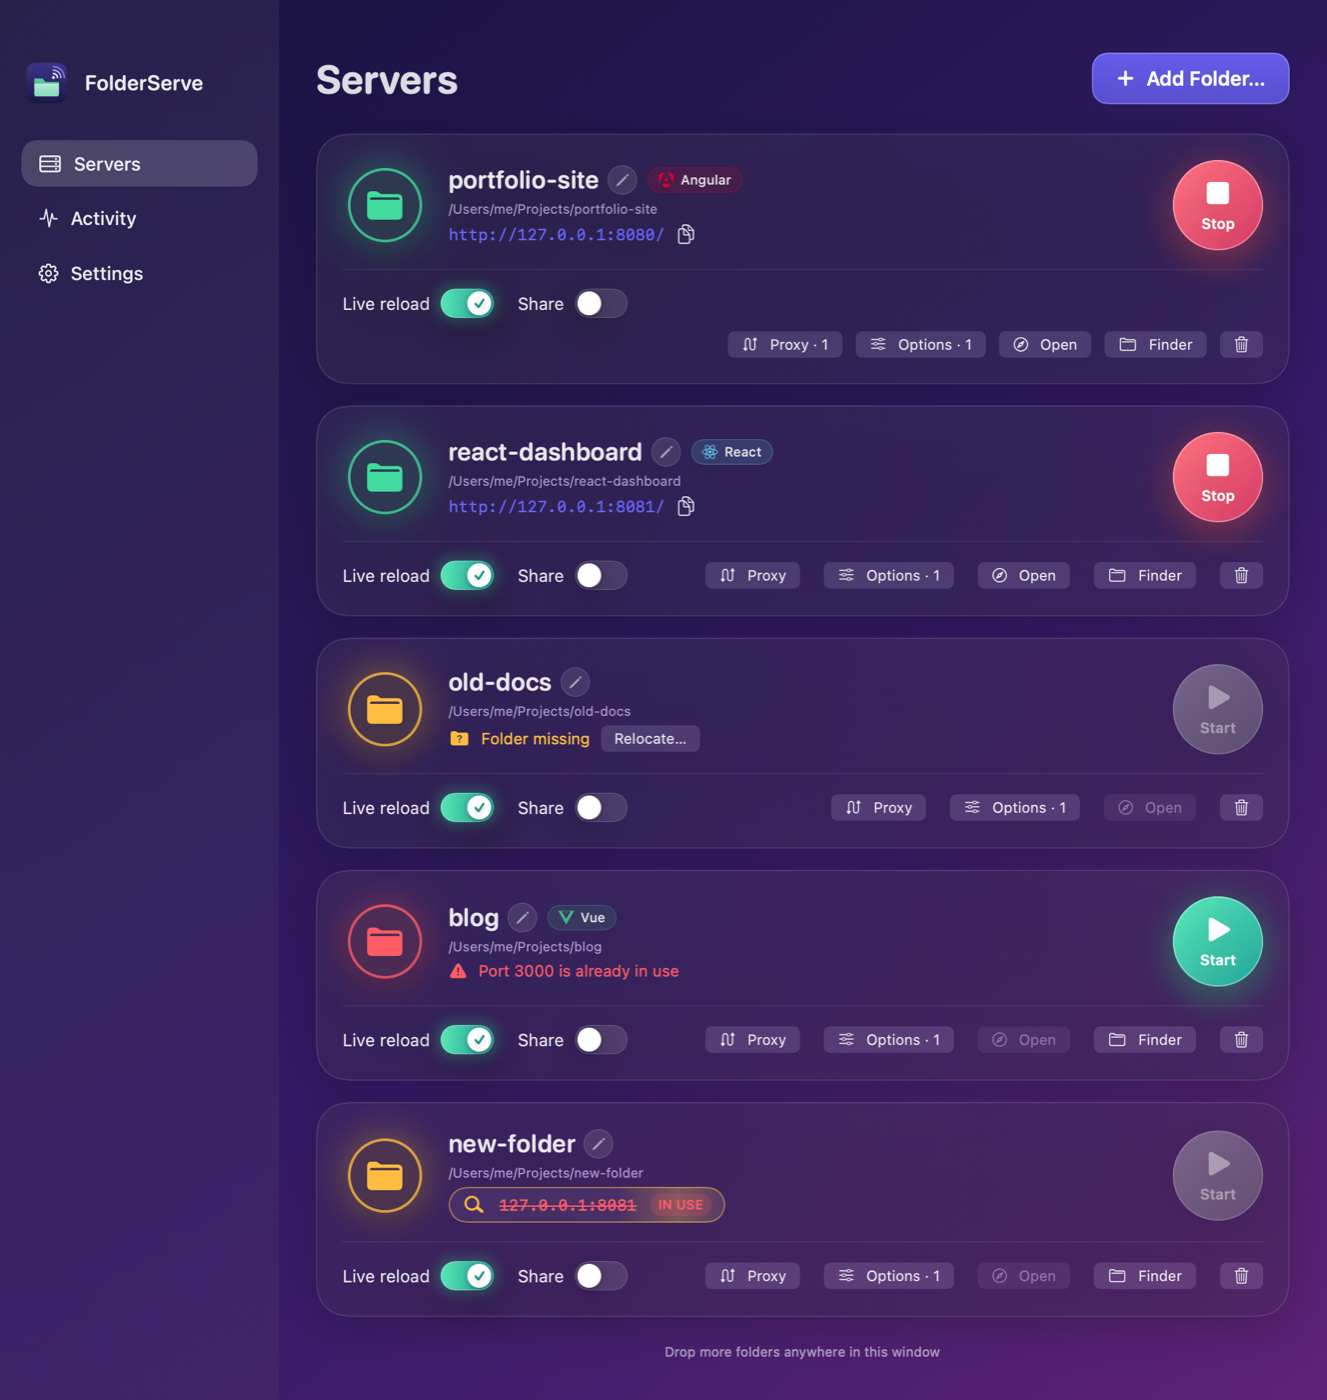
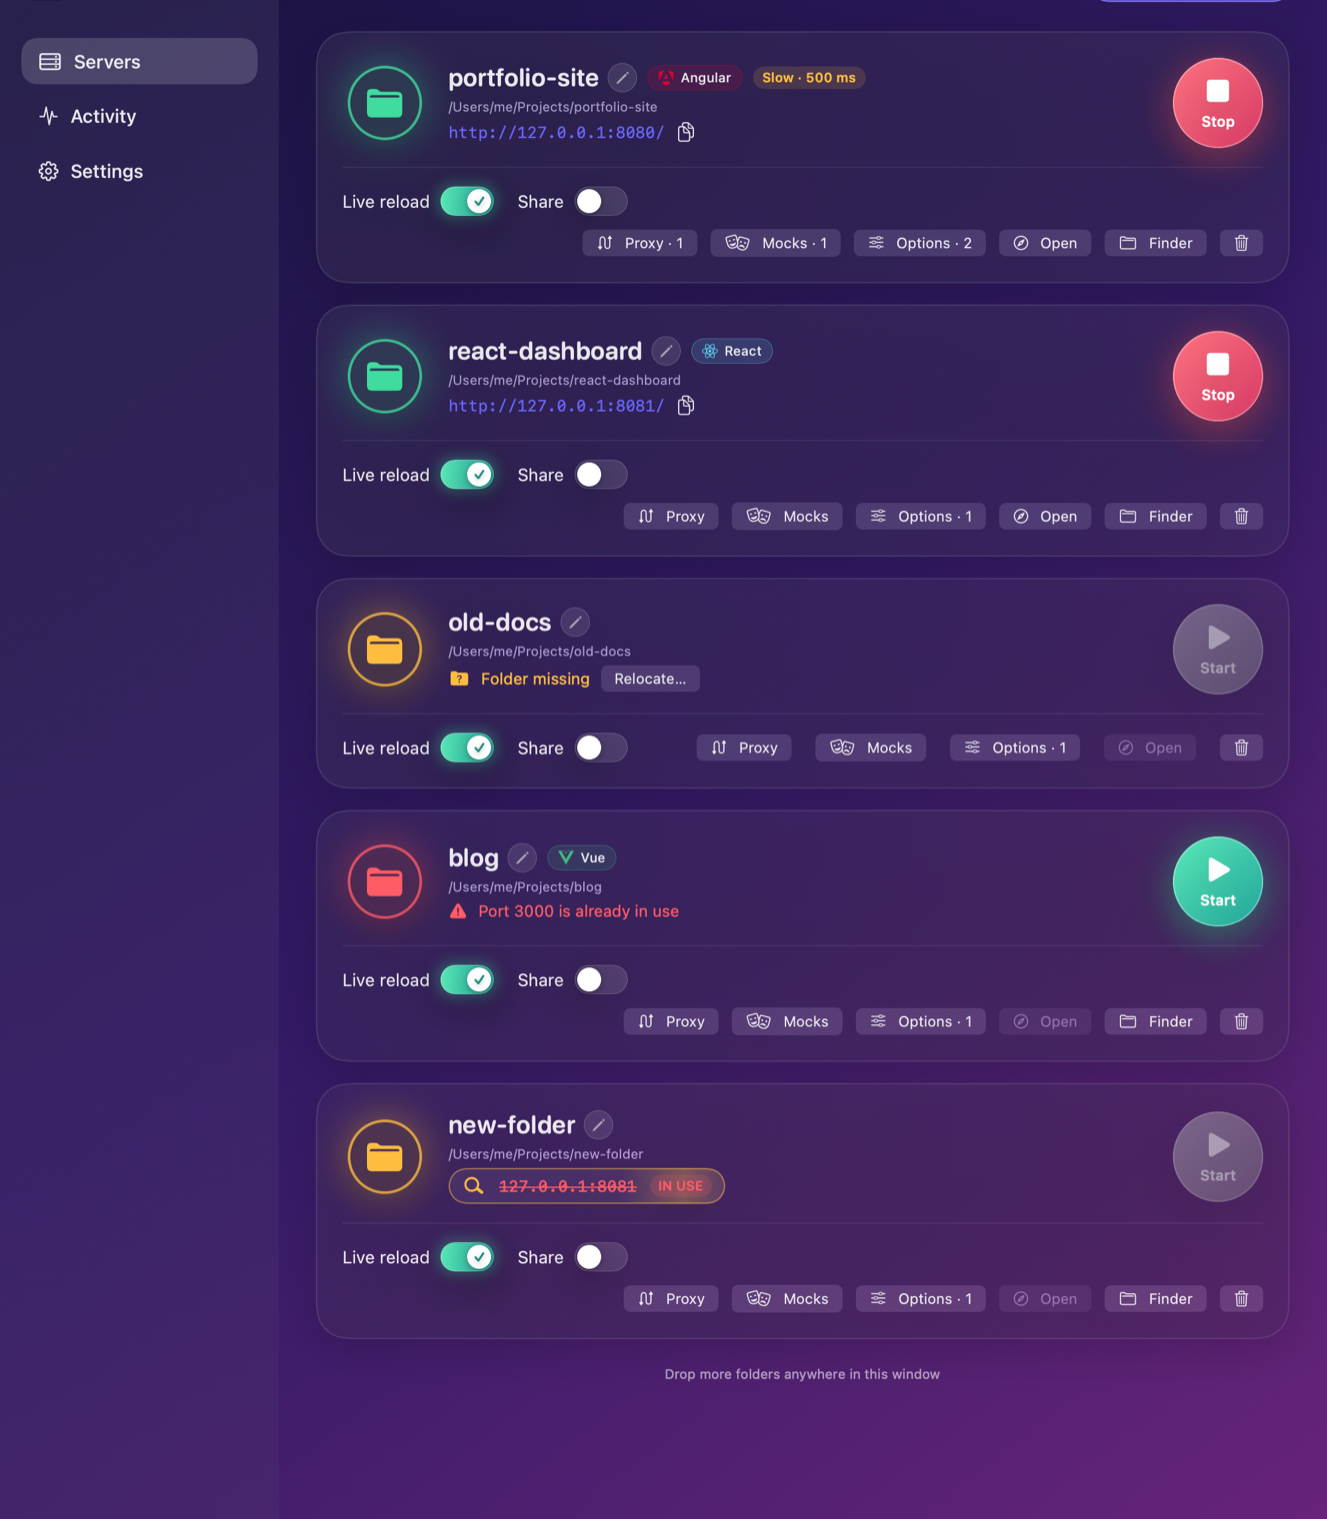
feat: per-server response delay to see loading states
Options ▸ Delay holds every answer back by a chosen time (files, mocks, proxied calls, errors);
live reload and the console endpoint are not delayed. The card shows a Slow badge while it is on.

diff --git a/Packages/FolderServeCore/Tests/FolderServeCoreTests/ResponseDelayTests.swift b/Packages/FolderServeCore/Tests/FolderServeCoreTests/ResponseDelayTests.swift
@@ -1,0 +1,75 @@
+import XCTest
+@testable import FolderServeCore
+
+final class ResponseDelayTests: XCTestCase {
+    var root: URL!
+    var server: StaticServer!
+    let fm = FileManager.default
+
+    override func setUpWithError() throws {
+        root = fm.temporaryDirectory.appendingPathComponent("dly-\(UUID().uuidString)")
+        try fm.createDirectory(at: root, withIntermediateDirectories: true)
+        try "hello".write(to: root.appendingPathComponent("a.txt"), atomically: true, encoding: .utf8)
+    }
+    override func tearDownWithError() throws { server?.stop(); try? fm.removeItem(at: root) }
+
+    private func start(_ options: ServeOptions) async throws -> UInt16 {
+        server = StaticServer(root: root, port: 0, options: options)
+        return try await server.start()
+    }
+    private func timed(_ port: UInt16, _ raw: String) throws -> (RawResponse, TimeInterval) {
+        let began = Date()
+        let r = try XCTUnwrap(RawHTTP.request(port: port, raw))
+        return (r, Date().timeIntervalSince(began))
+    }
+
+    func testEffectiveDelayIsClampedAndOlderSettingsHaveNone() throws {
+        XCTAssertEqual(ServeOptions().effectiveDelayMs, 0)
+        XCTAssertEqual(ServeOptions(responseDelayMs: -5).effectiveDelayMs, 0)
+        XCTAssertEqual(ServeOptions(responseDelayMs: 700).effectiveDelayMs, 700)
+        XCTAssertEqual(ServeOptions(responseDelayMs: 99_999).effectiveDelayMs, ServeOptions.maxDelayMs)
+        XCTAssertEqual(try JSONDecoder().decode(ServeOptions.self, from: Data("{}".utf8)).responseDelayMs, 0)
+    }
+
+    func testAnswersAreHeldBackAndTheTimeIsLogged() async throws {
+        let logged = Durations()
+        let port = try await start(ServeOptions(mocks: [MockRule(path: "/api/x", body: "m")], responseDelayMs: 300))
+        server.onRequest = { logged.add($0.durationMs ?? -1) }
+        let (file, fileTime) = try timed(port, "GET /a.txt HTTP/1.1\r\nHost: localhost\r\n\r\n")
+        XCTAssertEqual(file.text, "hello")
+        XCTAssertGreaterThanOrEqual(fileTime, 0.28)
+        let (mock, mockTime) = try timed(port, "GET /api/x HTTP/1.1\r\nHost: localhost\r\n\r\n")
+        XCTAssertEqual(mock.text, "m")
+        XCTAssertGreaterThanOrEqual(mockTime, 0.28)
+        let (missing, missingTime) = try timed(port, "GET /nope.txt HTTP/1.1\r\nHost: localhost\r\n\r\n")
+        XCTAssertEqual(missing.status, 404)
+        XCTAssertGreaterThanOrEqual(missingTime, 0.28)
+        for _ in 0..<100 where logged.values.count < 3 { usleep(10_000) }
+        XCTAssertTrue(logged.values.allSatisfy { $0 >= 280 }, "\(logged.values)")
+    }
+
+    func testNoDelayByDefaultAndChangingTheOptionAppliesAtOnce() async throws {
+        let port = try await start(ServeOptions())
+        XCTAssertLessThan(try timed(port, "GET /a.txt HTTP/1.1\r\nHost: localhost\r\n\r\n").1, 0.2)
+        server.updateOptions(ServeOptions(responseDelayMs: 250))
+        XCTAssertGreaterThanOrEqual(try timed(port, "GET /a.txt HTTP/1.1\r\nHost: localhost\r\n\r\n").1, 0.23)
+        server.updateOptions(ServeOptions())
+        XCTAssertLessThan(try timed(port, "GET /a.txt HTTP/1.1\r\nHost: localhost\r\n\r\n").1, 0.2)
+    }
+
+    func testLiveReloadConnectionAndHostCheckAreNotDelayed() async throws {
+        let port = try await start(ServeOptions(responseDelayMs: 2000))
+        let began = Date()
+        let r = try XCTUnwrap(RawHTTP.request(port: port, "GET /__reload HTTP/1.1\r\nHost: localhost\r\n\r\n", readLimit: 10))
+        XCTAssertEqual(r.status, 200)
+        XCTAssertLessThan(Date().timeIntervalSince(began), 1.0)
+        XCTAssertLessThan(try timed(port, "GET /a.txt HTTP/1.1\r\nHost: evil.example\r\n\r\n").1, 1.0)
+    }
+}
+
+private final class Durations: @unchecked Sendable {
+    private var v: [Int] = []
+    private let lock = NSLock()
+    var values: [Int] { lock.lock(); defer { lock.unlock() }; return v }
+    func add(_ x: Int) { lock.lock(); v.append(x); lock.unlock() }
+}

diff --git a/FolderServe/UI/OptionsPopoverView.swift b/FolderServe/UI/OptionsPopoverView.swift
@@ -21,6 +21,7 @@ struct OptionsPopoverView: View {
             row("Name address", "Show and open this folder as \(HostSlug.make(entryName)).localhost instead of 127.0.0.1. Browsers and curl send *.localhost to this Mac.", \.friendlyHost)
             openAtRow
             group("Debugging").padding(.top, 8)
+            delayRow
             row("Page console", "Show the pages' console errors, warnings and uncaught errors under Activity ▸ Console, also from a phone. Adds a small script to HTML pages.", \.captureConsole)
             group("Security").padding(.top, 8)
             row("HTTPS", "Serve over https:// with a self-signed localhost certificate. Your browser warns once.", \.https)
@@ -52,6 +53,36 @@ struct OptionsPopoverView: View {
             if openAtInvalid {
                 Text("That is not a path on this server. Use something like /docs/index.html.")
                     .font(.caption).foregroundStyle(Theme.warning).fixedSize(horizontal: false, vertical: true)
+            }
+        }
+        .padding(.vertical, 6)
+    }
+
+    /// Slow network: hold every answer back by a chosen time. Drawn as buttons (ImageRenderer cannot draw a Picker).
+    private var delayRow: some View {
+        VStack(alignment: .leading, spacing: 6) {
+            HStack(spacing: 5) {
+                Text("Delay").font(.callout.weight(.medium))
+                if options.effectiveDelayMs > 0 {
+                    Image(systemName: "tortoise.fill").font(.system(size: 11)).foregroundStyle(Theme.warning).accessibilityLabel("Delay is on")
+                }
+            }
+            Text("Wait before answering every request, to see spinners and loading states. Remember to switch it off.")
+                .font(.caption).foregroundStyle(.secondary).fixedSize(horizontal: false, vertical: true)
+            HStack(spacing: 4) {
+                ForEach(ServeOptions.delayChoices, id: \.self) { ms in
+                    let selected = options.effectiveDelayMs == ms
+                    Button { var o = options; o.responseDelayMs = ms; manager.setOptions(entryID, o) } label: {
+                        Text(ServeOptions.delayLabel(ms)).font(.system(size: 11, weight: selected ? .semibold : .regular))
+                            .padding(.horizontal, 8).padding(.vertical, 4)
+                            .foregroundStyle(selected ? Color.white : Color.primary.opacity(0.85))
+                            .background(Capsule().fill(selected ? AnyShapeStyle(ms == 0 ? Theme.accent : Theme.warning.opacity(0.85)) : AnyShapeStyle(.quaternary.opacity(0.6))))
+                            .contentShape(Capsule())
+                    }
+                    .buttonStyle(.plain)
+                    .accessibilityLabel("Delay \(ServeOptions.delayLabel(ms))")
+                    .accessibilityAddTraits(selected ? .isSelected : [])
+                }
             }
         }
         .padding(.vertical, 6)

diff --git a/Packages/FolderServeCore/Sources/FolderServeCore/ServeOptions.swift b/Packages/FolderServeCore/Sources/FolderServeCore/ServeOptions.swift
@@ -25,10 +25,16 @@ public struct ServeOptions: Codable, Equatable, Sendable {
     public var mocks: [MockRule] = []
     /// Forward the pages' console errors, warnings and uncaught errors to the app (a script is added to HTML pages). Off by default.
     public var captureConsole = false
+    /// Wait this long before answering every request, to see loading states (0: off). Live reload's own connection is not delayed.
+    public var responseDelayMs = 0
+    public static let delayChoices = [0, 200, 500, 1000, 2000, 5000]
+    public static let maxDelayMs = 10_000
+    /// The delay actually applied: never negative, never more than ten seconds.
+    public var effectiveDelayMs: Int { min(max(responseDelayMs, 0), Self.maxDelayMs) }
 
     public init(spaMode: Bool = true, liveReload: Bool = true, serveDotfiles: Bool = false, cors: Bool = false,
                 proxyRules: [ProxyRule] = [], caching: Bool = false, https: Bool = false, shareOnNetwork: Bool = false,
-                friendlyHost: Bool = false, openPath: String = "", mocks: [MockRule] = [], captureConsole: Bool = false) {
+                friendlyHost: Bool = false, openPath: String = "", mocks: [MockRule] = [], captureConsole: Bool = false, responseDelayMs: Int = 0) {
         self.spaMode = spaMode
         self.liveReload = liveReload
         self.serveDotfiles = serveDotfiles
@@ -41,6 +47,7 @@ public struct ServeOptions: Codable, Equatable, Sendable {
         self.openPath = openPath
         self.mocks = mocks
         self.captureConsole = captureConsole
+        self.responseDelayMs = responseDelayMs
     }
 
     // Older saved settings lack newer keys; they default to off (or on, for the original switches).
@@ -58,5 +65,6 @@ public struct ServeOptions: Codable, Equatable, Sendable {
         openPath = try c.decodeIfPresent(String.self, forKey: .openPath) ?? ""
         mocks = try c.decodeIfPresent([MockRule].self, forKey: .mocks) ?? []
         captureConsole = try c.decodeIfPresent(Bool.self, forKey: .captureConsole) ?? false
+        responseDelayMs = try c.decodeIfPresent(Int.self, forKey: .responseDelayMs) ?? 0
     }
 }

diff --git a/FolderServe/UI/ServerCardView.swift b/FolderServe/UI/ServerCardView.swift
@@ -20,6 +20,10 @@ struct ServerCardView: View {
                             title(for: entry)
                             if let kind = manager.projectKinds[entryID] { ProjectBadge(kind: kind) }
                             if entry.options.https { OptionBadge(text: "HTTPS") }
+                            if entry.options.effectiveDelayMs > 0 {
+                                OptionBadge(text: "Slow · \(ServeOptions.delayLabel(entry.options.effectiveDelayMs))", warning: true)
+                                    .help("Every answer is held back by \(ServeOptions.delayLabel(entry.options.effectiveDelayMs)). Change it under Options ▸ Delay.")
+                            }
                             if entry.options.cors { OptionBadge(text: "CORS", warning: true).help("CORS is on: any website open in your browser can read the files served here.") }
                             if entry.startsAlways {
                                 Image(systemName: "pin.fill").font(.system(size: 11)).foregroundStyle(.secondary)

diff --git a/Packages/FolderServeCore/Sources/FolderServeCore/StaticServer.swift b/Packages/FolderServeCore/Sources/FolderServeCore/StaticServer.swift
@@ -203,6 +203,17 @@ public final class StaticServer: @unchecked Sendable {
             receiveConsole(conn, req, buffered: Data(buffered))
             return
         }
+        // Slow network: hold every answer back. The time shows in Activity, because the clock started when the request arrived.
+        let delay = currentOptions.effectiveDelayMs
+        guard delay > 0 else { handle(conn, req, buffered: buffered); return }
+        let id = ObjectIdentifier(conn)
+        queue.asyncAfter(deadline: .now() + .milliseconds(delay)) { [weak self] in
+            guard let self, self.connections[id] != nil else { return }   // the client gave up while waiting
+            self.handle(conn, req, buffered: buffered)
+        }
+    }
+
+    private func handle(_ conn: NWConnection, _ req: HTTPRequest, buffered: Data) {
         let corsOn = currentOptions.cors
         if corsOn {
             connHeaders[ObjectIdentifier(conn)] = Self.corsHeaders(for: req)

diff --git a/FolderServeTests/ConsoleTests.swift b/FolderServeTests/ConsoleTests.swift
@@ -74,4 +74,13 @@ final class ConsoleTests: XCTestCase {
         XCTAssertEqual(ConsoleView.color(.uncaught), Theme.failed)
         XCTAssertEqual(ServeOptions(captureConsole: true).enabledExtrasCount, ServeOptions().enabledExtrasCount + 1)
     }
+
+    func testDelayLabelsAndCount() {
+        XCTAssertEqual(ServeOptions.delayLabel(0), "Off")
+        XCTAssertEqual(ServeOptions.delayLabel(200), "200 ms")
+        XCTAssertEqual(ServeOptions.delayLabel(1000), "1 s")
+        XCTAssertEqual(ServeOptions.delayLabel(2500), "2.5 s")
+        XCTAssertEqual(ServeOptions(responseDelayMs: 500).enabledExtrasCount, ServeOptions().enabledExtrasCount + 1)
+        XCTAssertEqual(ServeOptions(responseDelayMs: -1).enabledExtrasCount, ServeOptions().enabledExtrasCount)
+    }
 }

diff --git a/FolderServe/Model/OptionsSummary.swift b/FolderServe/Model/OptionsSummary.swift
@@ -2,5 +2,12 @@ import FolderServeCore
 
 extension ServeOptions {
     /// How many of the switches tucked into the Options popover are on (shown as "Options · 2").
-    var enabledExtrasCount: Int { [spaMode, caching, https, cors, friendlyHost, !openPath.isEmpty, captureConsole].filter { $0 }.count }
+    /// "200 ms", "1 s", "2.5 s" — or "Off".
+    static func delayLabel(_ ms: Int) -> String {
+        if ms <= 0 { return "Off" }
+        if ms < 1000 { return "\(ms) ms" }
+        return ms % 1000 == 0 ? "\(ms / 1000) s" : String(format: "%.1f s", Double(ms) / 1000)
+    }
+
+    var enabledExtrasCount: Int { [spaMode, caching, https, cors, friendlyHost, !openPath.isEmpty, captureConsole, effectiveDelayMs > 0].filter { $0 }.count }
 }

diff --git a/FolderServe/UI/Previews.swift b/FolderServe/UI/Previews.swift
@@ -13,6 +13,7 @@ enum PreviewData {
         }
         var a = entry("portfolio-site")
         a.options.proxyRules = [ProxyRule(prefix: "/uiapi", target: "https://localhost:5003")]
+        a.options.responseDelayMs = 500
         a.options.mocks = [MockRule(method: "GET", path: "/uiapi/Account/Profile", body: #"{"id":7,"name":"Ada","roles":["admin"]}"#),
                            MockRule(method: "POST", path: "/uiapi/Orders", status: 503, body: #"{"error":"Service unavailable"}"#, enabled: false)]
         let b = entry("react-dashboard"), c = entry("old-docs"), d = entry("blog"), e = entry("new-folder")

diff --git a/README.md b/README.md
@@ -43,7 +43,7 @@ Rendered from the app's built-in sample data (no real folders or requests).
 
 | Activity | Options |
 |---|---|
-| ![Activity filtered to errors: type chips, status chips (any, success, redirects, errors), search and the matching requests](docs/screenshots/activity-list.png) | ![Options popover: SPA mode, Cache, Name address, Open at, HTTPS, CORS](docs/screenshots/options.png) |
+| ![Activity filtered to errors: type chips, status chips (any, success, redirects, errors), search and the matching requests](docs/screenshots/activity-list.png) | ![Options popover: SPA mode, Cache, Name address, Open at, Delay, Page console, HTTPS, CORS](docs/screenshots/options.png) |
 
 ![Foldable, coloured JSON tree](docs/screenshots/json-tree.png)
 
@@ -53,6 +53,7 @@ Rendered from the app's built-in sample data (no real folders or requests).
 
 - Drop a folder on the window, the Dock icon or the menu bar popover — it starts serving immediately. **⌘O** (File ▸ Add Folder…) opens the folder picker.
   Also works from Terminal: `open -a FolderServe ~/my-site`.
+- **Slow network**: delay every answer of a server to see loading states. See [Slow network](#slow-network).
 - **Page console**: see the pages' console errors, warnings and uncaught errors in the app, also from a phone. See [Page console](#page-console).
 - **Mock responses**: answer a path with a saved response (status, type, body) instead of the real one. Save one from any request in Activity. See [Mock responses](#mock-responses).
 - **Finder**: right-click a folder ▸ **Services ▸ Serve with FolderServe** serves it and opens it in your browser, without opening the app or dragging. macOS leaves a new service switched off: tick **Serve with FolderServe** once in System Settings ▸ Keyboard ▸ Keyboard Shortcuts ▸ Services ▸ Files and Folders, and it appears in the right-click menu. Folders also work through *Open With*.
@@ -230,6 +231,12 @@ remove) or the body, then **Send**. The host is always the server's current addr
 appears in Activity, and **Show in Activity** jumps to it. Edits are never written to disk.
 
 <img src="docs/screenshots/edit-replay.png" alt="The Edit & Replay sheet: method, path, headers, body, and the status of the answer" width="600">
+
+## Slow network
+
+**Options ▸ Delay** holds every answer of a server back by 200 ms, 500 ms, 1 s, 2 s or 5 s, so you can see spinners, skeletons and what
+happens when a user clicks twice. Files, mocks, proxied calls and error pages are all delayed; live reload's own connection is not. The
+wait is part of the time Activity shows, and the server's card carries a **Slow** badge while it is on, so you do not forget it.
 
 ## Page console
 

diff --git a/CLAUDE.md b/CLAUDE.md
@@ -126,3 +126,5 @@ cannot be captured — seed state through initialisers (`ActivityView(initiallyH
 - **Page console** (`ConsoleMessage` in core, `ServeOptions.captureConsole`, `ConsoleView`): `ReloadScript.decorate` adds the reload script before `</body>` and the console script right after `<head>` (so it sees load-time errors).
   The script posts JSON batches to `POST /__console`; `StaticServer.receiveConsole` answers 404 when the option is off, 403 unless same-origin (`Sec-Fetch-Site` / `Origin` against `Host`), caps size and never logs it as a request.
   `ServerManager.consoleLines` keeps the newest 500 in memory. Activity has a hand-drawn Requests | Console switch (`ActivityMode`). The script is JavaScript in a Swift string: after changing it, run it in Node with a fake `location`/`fetch`.
+- **Delay** (`ServeOptions.responseDelayMs`, `effectiveDelayMs` clamps to 0…10 s): `StaticServer.respond` does the host check, `/__reload` and `/__console` at once, then waits on the server queue before `handle` (CORS, mocks, proxy, files),
+  dropping the request if the client has gone. The clock for `durationMs` started on arrival, so Activity shows the wait. The Options row is hand-drawn buttons, and the card shows a "Slow" `OptionBadge`.
